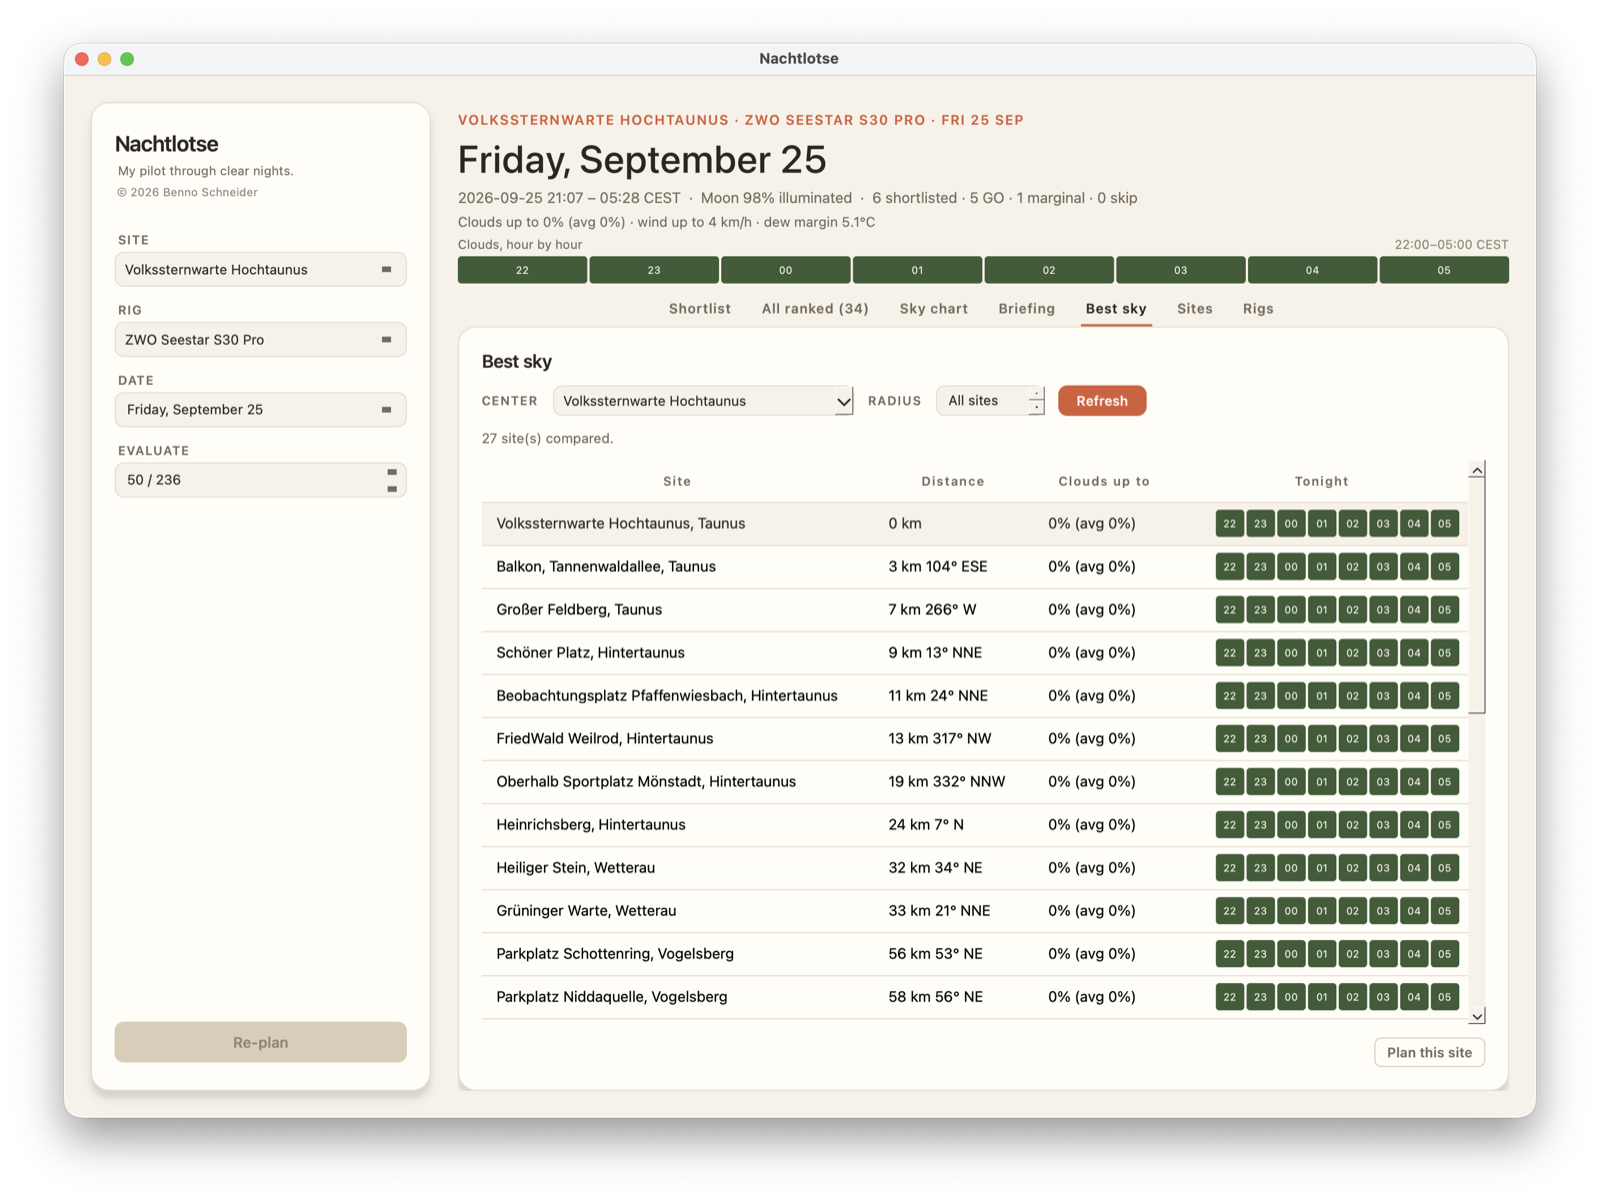
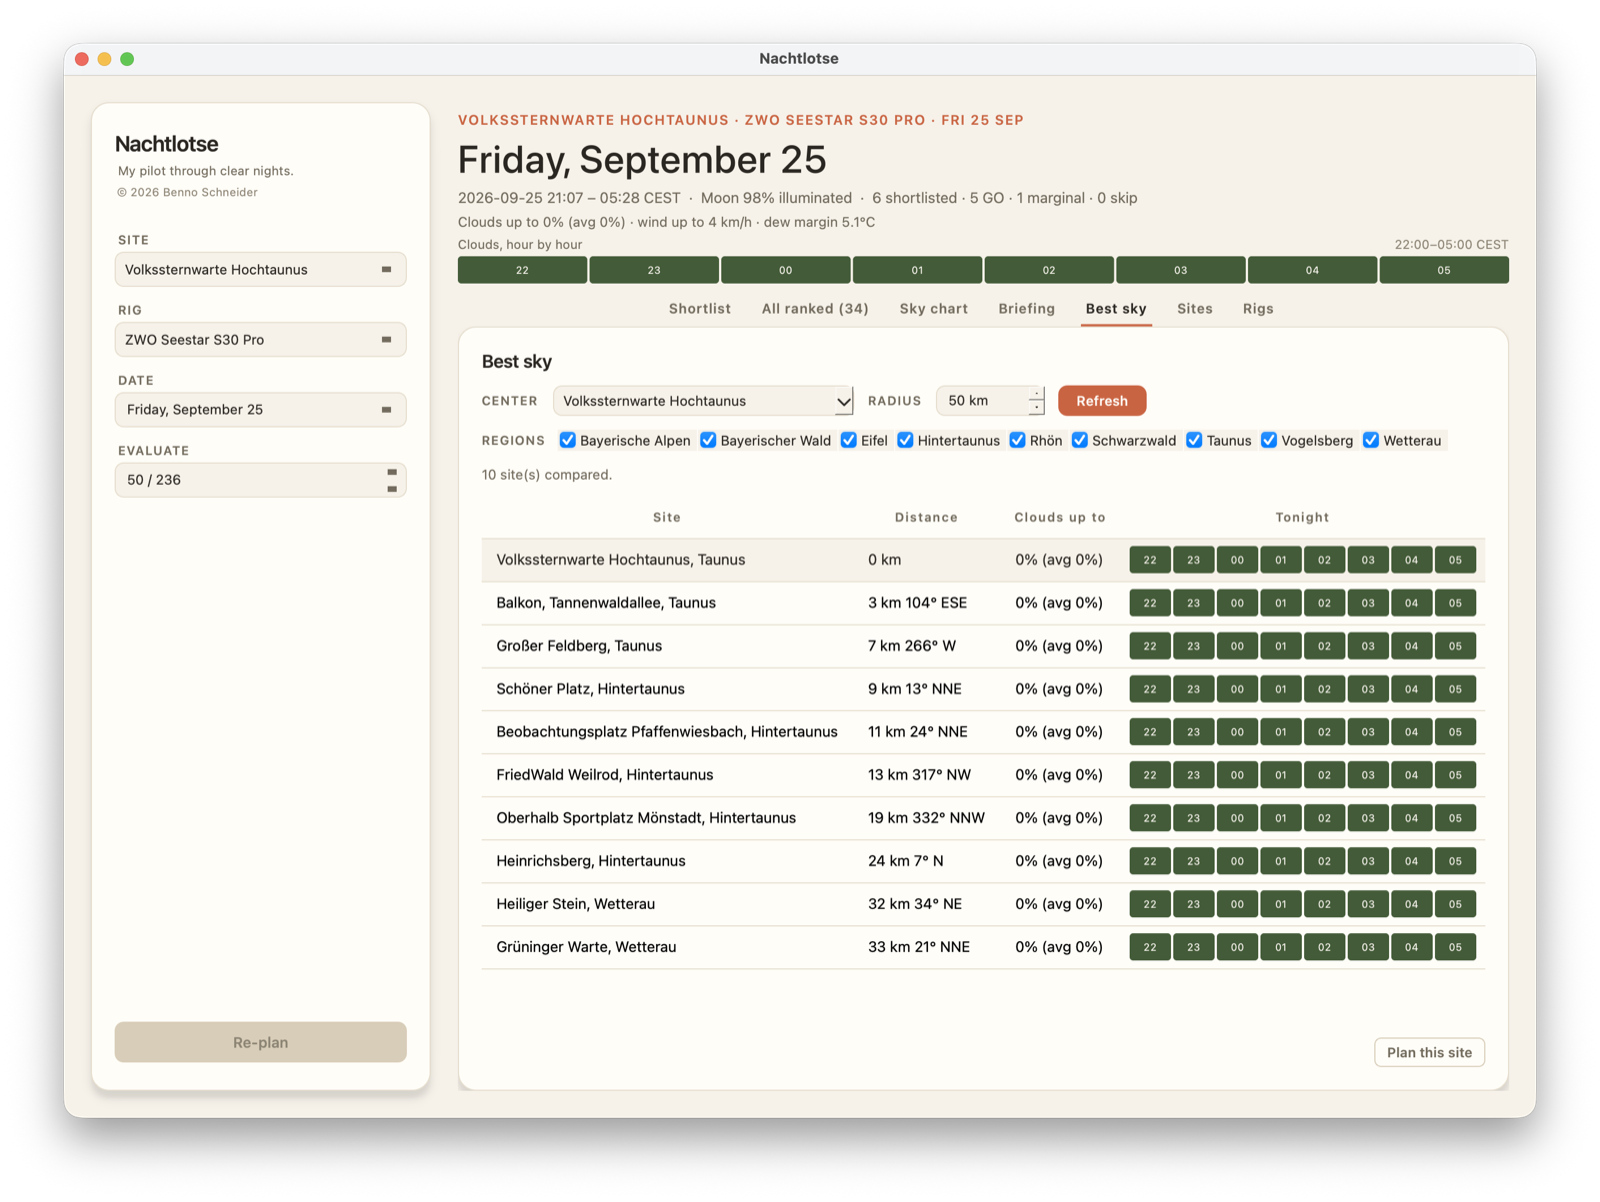
Best sky: region filter, 50km default radius, auto-refresh on first open
Adds the same REGIONS checkbox row the Sites tab already has (all
checked by default) — filters the results table live, independent of
Center/Radius: toggling a region never itself re-fetches, it just
shows/hides rows from whatever the last Refresh already pulled in, so
unchecking a region and checking it back needs no second Refresh.
theme.region_checkbox_row() is the shared builder now used by both
screens (promoted out of sites_rigs.py's own, now-identical, private
version).

Radius also defaults to 50km instead of opening on "All sites"
(the country-spanning site list from recent sites_local.yaml
additions made that a much less useful first view than it used to
be), and the tab auto-refreshes itself the first time it's actually
switched to (MainWindow.tabs.currentChanged -> BestSkyCard.
refresh_if_needed(), a one-shot guarded by a pending flag) — so it
shows real results immediately rather than an empty "click Refresh"
prompt. Every change after that first automatic one, and every later
tab switch, still needs an explicit Refresh click same as before.

Also fixes a real rendering bug hit while testing the region filter:
shrinking QTableWidget's row count for a REGIONS-narrowed re-render
left the previous, wider result set's sparkline cell widgets still
painting behind the new rows — same class of stale-widget bug already
fixed for the Sites tab's own cards, now fixed here by forcing the
table through row count 0 before setting the real one.

Changed region(s): [[0.3125, 0.3078, 0.9375, 0.8619]]

diff --git a/nachtlotse/gui/best_sky_card.py b/nachtlotse/gui/best_sky_card.py
@@ -8,7 +8,13 @@ tonight", independent of any rig. It therefore doesn't hook into
 `MainWindow._replan` at all — its own Center/Radius controls are staged
 and applied by their own Refresh button (same "staged, not live" rule
 `sidebar.py`'s module docstring lays out), not tied to the sidebar's
-Re-plan.
+Re-plan. `refresh_if_needed()` is the one exception: `MainWindow` calls
+it on every tab switch, and the first one that actually lands here
+clicks Refresh automatically (with Radius already at
+`_DEFAULT_RADIUS_KM`, not "All sites"), so the tab shows real results
+the moment it's first opened rather than an empty "click Refresh"
+prompt — every switch after that, and every control change, still
+needs an explicit click same as always.
 
 The compared date instead *does* follow the sidebar: `set_date` is
 called from `MainWindow._on_plan_ready` after every successful plan, so
@@ -23,6 +29,14 @@ The request runs on a background `QThread` (`_BestSkyWorker`), same
 reasoning as `briefing._BriefingWorker`/`main_window._PlanWorker`: it's
 one Open-Meteo fetch per candidate site (cached 1h, but still real
 network I/O), and running it on the UI thread would freeze the window.
+
+A REGIONS checkbox row (`theme.region_checkbox_row`, shared with the
+Sites tab's own identical one) filters the *displayed* table live —
+unlike Center/Radius, toggling a region never itself triggers a new
+fetch. Refresh still queries every configured site (subject to
+Radius), and REGIONS just shows/hides rows from whatever's already in
+`self._all_rows`; unchecking a region and checking it back needs no
+second Refresh to see its data again.
 """
 
 from __future__ import annotations
@@ -32,6 +46,7 @@ from zoneinfo import ZoneInfo
 
 from PySide6.QtCore import Qt, QThread, Signal
 from PySide6.QtWidgets import (
+    QCheckBox,
     QComboBox,
     QHBoxLayout,
     QHeaderView,
@@ -52,12 +67,17 @@ from nachtlotse.gui.theme import (
     RoundedCard,
     field_label,
     label_style,
+    region_checkbox_row,
     secondary_button,
 )
 
 # Sites you'd realistically drive to for one night, not a hard engine
 # limit — best_sky.compare_sites itself accepts any distance.
 _MAX_RADIUS_KM = 500
+# The initial Radius, not a permanent cap — a sensible "nearby options"
+# starting point (widen or go to "All sites" from here) rather than
+# opening on the full, possibly-country-spanning site list.
+_DEFAULT_RADIUS_KM = 50
 
 # "Clouds up to" carries the phrasing that used to repeat in every row's
 # own cell text (data_adapter.BestSkyRow.clouds_text is now just the
@@ -111,8 +131,9 @@ class _BestSkyWorker(QThread):
 
 
 class BestSkyCard(RoundedCard):
-    """Center/Radius controls, a Refresh button, and the ranked
-    clearest-first comparison table."""
+    """Center/Radius controls, a Refresh button, a REGIONS filter row
+    (live, see module docstring), and the ranked clearest-first
+    comparison table."""
 
     plan_site_requested = Signal(object)  # SiteRecord
 
@@ -125,7 +146,16 @@ class BestSkyCard(RoundedCard):
         # calls `set_date` for real (see module docstring) — the system's
         # local date is a fine starting guess for that brief window.
         self._selected_date = datetime.now().astimezone().date()
+        # `_all_rows` is every row from the last successful fetch;
+        # `_rows` is whatever REGIONS currently leaves visible (what the
+        # table actually shows, and what row indices in it resolve
+        # against — see _on_plan_clicked). Refreshing replaces both;
+        # toggling a region only ever re-filters _all_rows into _rows.
+        self._all_rows: list[data_adapter.BestSkyRow] = []
         self._rows: list[data_adapter.BestSkyRow] = []
+        self._region_checkboxes: dict[str, QCheckBox] = {}
+        self._has_results = False
+        self._auto_refresh_pending = True
         self._worker: _BestSkyWorker | None = None
 
         layout = QVBoxLayout(self)
@@ -166,6 +196,7 @@ class BestSkyCard(RoundedCard):
         # (omitted = every configured site) and the EVALUATE spinbox's
         # identical 0-is-special convention in sidebar.py.
         self.radius_spin.setSpecialValueText("All sites")
+        self.radius_spin.setValue(_DEFAULT_RADIUS_KM)
         self.radius_spin.setStyleSheet(controls_style)
         controls_row.addWidget(self.radius_spin)
 
@@ -188,6 +219,12 @@ class BestSkyCard(RoundedCard):
         controls_row.addWidget(self.refresh_button)
         controls_row.addStretch(1)
         layout.addLayout(controls_row)
+
+        region_row, self._region_checkboxes = region_checkbox_row(
+            {record.region for record in sites}, self._on_region_filter_changed
+        )
+        if region_row is not None:
+            layout.addLayout(region_row)
 
         self.status_label = QLabel("Pick a center site and click Refresh.")
         self.status_label.setStyleSheet(
@@ -250,6 +287,19 @@ class BestSkyCard(RoundedCard):
         a refetch."""
         self._selected_date = selected_date
 
+    def refresh_if_needed(self) -> None:
+        """Called from `MainWindow` on every tab switch; only the first
+        one that actually lands on this tab does anything — clicking
+        Refresh for the user once, with whatever Center/Radius/REGIONS
+        are already staged (Radius defaults to `_DEFAULT_RADIUS_KM`),
+        so the tab isn't just an empty prompt the very first time it's
+        opened. Every later switch, and every control change after
+        that, still needs an explicit Refresh click same as always."""
+        if not self._auto_refresh_pending:
+            return
+        self._auto_refresh_pending = False
+        self.refresh_button.click()
+
     def _on_refresh_clicked(self) -> None:
         reference = self._sites[self.center_combo.currentIndex()]
         radius_value = self.radius_spin.value()
@@ -265,6 +315,12 @@ class BestSkyCard(RoundedCard):
             f"{self._selected_date:%A, %B %-d}…"
         )
         self.table.setRowCount(0)
+        # Cleared up front, not just left stale until a new _on_succeeded:
+        # a REGIONS toggle during/after a failed refresh must not silently
+        # repopulate the table from the previous fetch's results.
+        self._has_results = False
+        self._all_rows = []
+        self._rows = []
 
         self._worker = _BestSkyWorker(reference, self._sites, self._selected_date, max_distance_km)
         self._worker.succeeded.connect(self._on_succeeded)
@@ -273,15 +329,43 @@ class BestSkyCard(RoundedCard):
 
     def _on_succeeded(self, reports: list[best_sky.SiteSkyReport]) -> None:
         self.refresh_button.setEnabled(True)
-        self._rows = data_adapter.build_best_sky_rows(reports, self._sites)
+        self._has_results = True
+        self._all_rows = data_adapter.build_best_sky_rows(reports, self._sites)
+        self._render_rows(self._filtered_rows())
+
+    def _filtered_rows(self) -> list[data_adapter.BestSkyRow]:
+        if not self._region_checkboxes:
+            return self._all_rows
+        selected = {
+            region
+            for region, checkbox in self._region_checkboxes.items()
+            if checkbox.isChecked()
+        }
+        return [row for row in self._all_rows if row.site_record.region in selected]
+
+    def _on_region_filter_changed(self) -> None:
+        if not self._has_results:
+            return  # nothing fetched yet — leave the initial prompt as-is
+        self._render_rows(self._filtered_rows())
+
+    def _render_rows(self, rows: list[data_adapter.BestSkyRow]) -> None:
+        self._rows = rows
         # Every site's own dark window is a different length (latitude) —
         # align every row's sparkline to the same hour-by-hour timeline
-        # (the longest night among them) rather than each row scaling to
-        # its own hour count, which otherwise leaves same-width columns
-        # meaning different clock hours from row to row.
-        axis = data_adapter.shared_hourly_axis([row.hourly_cloud_cover for row in self._rows])
-        self.table.setRowCount(len(self._rows))
-        for row_index, row in enumerate(self._rows):
+        # (the longest night among the *displayed* rows) rather than each
+        # row scaling to its own hour count, which otherwise leaves
+        # same-width columns meaning different clock hours from row to
+        # row. Recomputed here (not once per fetch) so a REGIONS toggle
+        # that drops the longest-night row also shrinks the axis to match.
+        axis = data_adapter.shared_hourly_axis([row.hourly_cloud_cover for row in rows])
+        # Dropping straight to the new (possibly smaller) row count, not
+        # via 0 first, left REGIONS-filtered-out rows' cell widgets
+        # (the sparklines — QTableWidget.setRowCount() alone doesn't
+        # reliably tear those down) still painting behind the shorter
+        # table — same lesson as sites_rigs.py's own card-widget cleanup.
+        self.table.setRowCount(0)
+        self.table.setRowCount(len(rows))
+        for row_index, row in enumerate(rows):
             site_item = QTableWidgetItem(row.site_text)
             distance_item = QTableWidgetItem(row.distance_text)
             clouds_item = QTableWidgetItem(row.clouds_text)
@@ -298,9 +382,17 @@ class BestSkyCard(RoundedCard):
                 _TONIGHT_COLUMN_INDEX,
                 build_cloud_sparkline(row.hourly_cloud_cover, local_tz, axis=axis),
             )
-        if self._rows:
+        if rows:
             self.table.selectRow(0)  # the clearest site, already ranked first
-            self.status_label.setText(f"{len(self._rows)} site(s) compared.")
+            if len(rows) == len(self._all_rows):
+                self.status_label.setText(f"{len(rows)} site(s) compared.")
+            else:
+                self.status_label.setText(
+                    f"{len(rows)} of {len(self._all_rows)} site(s) shown "
+                    "(REGIONS filter)."
+                )
+        elif self._all_rows:
+            self.status_label.setText("No sites match the checked regions.")
         else:
             self.status_label.setText("No configured site falls within that radius.")
 

diff --git a/nachtlotse/gui/theme.py b/nachtlotse/gui/theme.py
@@ -9,9 +9,18 @@ ROADMAP.md/STATUS.md for what's still missing from this first scaffold).
 
 from __future__ import annotations
 
+from collections.abc import Callable
+
 from PySide6.QtCore import Qt
 from PySide6.QtGui import QColor
-from PySide6.QtWidgets import QFrame, QGraphicsDropShadowEffect, QLabel, QPushButton
+from PySide6.QtWidgets import (
+    QCheckBox,
+    QFrame,
+    QGraphicsDropShadowEffect,
+    QHBoxLayout,
+    QLabel,
+    QPushButton,
+)
 
 LIGHT_COLORS = {
     "cream": "#f6f2ea",
@@ -134,6 +143,41 @@ def field_label(text: str) -> QLabel:
         )
     )
     return label
+
+
+def region_checkbox_row(
+    regions: set[str], on_toggle: Callable[[], None]
+) -> tuple[QHBoxLayout | None, dict[str, QCheckBox]]:
+    """A "REGIONS" `field_label` + one checkbox per region (alphabetical,
+    all checked by default), each wired to `on_toggle` — shared between
+    the Sites tab's own filter row (`gui/sites_rigs.py`, the original)
+    and Best Sky's (`gui/best_sky_card.py`) identical one. What "checked"
+    means is entirely up to the caller: `SitesCard` re-renders live on
+    every toggle (pure client-side filtering, nothing to fetch);
+    `BestSkyCard` also re-renders live, filtering its own already-
+    fetched rows — REGIONS never itself triggers a new Open-Meteo fetch
+    in either screen, only what's already loaded gets shown or hidden.
+
+    Returns `(None, {})` when fewer than two regions exist — nothing
+    meaningful to filter, so callers should skip adding the row at all.
+    """
+    sorted_regions = sorted(regions, key=str.casefold)
+    if len(sorted_regions) < 2:
+        return None, {}
+
+    row = QHBoxLayout()
+    row.addWidget(field_label("REGIONS"))
+    checkbox_style = f"QCheckBox {{ color: {COLORS['ink']}; font-size: 12px; }}"
+    checkboxes: dict[str, QCheckBox] = {}
+    for region in sorted_regions:
+        checkbox = QCheckBox(region)
+        checkbox.setChecked(True)
+        checkbox.setStyleSheet(checkbox_style)
+        checkbox.toggled.connect(on_toggle)
+        checkboxes[region] = checkbox
+        row.addWidget(checkbox)
+    row.addStretch(1)
+    return row, checkboxes
 
 
 def secondary_button(text: str) -> QPushButton:

diff --git a/nachtlotse/gui/sites_rigs.py b/nachtlotse/gui/sites_rigs.py
@@ -48,6 +48,7 @@ from nachtlotse.gui.theme import (
     RoundedCard,
     field_label,
     label_style,
+    region_checkbox_row,
     secondary_button,
 )
 
@@ -199,7 +200,9 @@ class SitesCard(_ListScrollArea):
 
         if sites:
             outer.addLayout(self._build_sort_row())
-            region_row = self._build_region_filter_row()
+            region_row, self._region_checkboxes = region_checkbox_row(
+                {record.region for record in sites}, self._render
+            )
             if region_row is not None:
                 outer.addLayout(region_row)
 
@@ -256,29 +259,6 @@ class SitesCard(_ListScrollArea):
         self.from_combo.currentIndexChanged.connect(self._render)
         row.addWidget(self.from_combo)
 
-        row.addStretch(1)
-        return row
-
-    def _build_region_filter_row(self) -> QHBoxLayout | None:
-        """A checkbox per distinct region, all checked by default — a
-        filter independent of SORT (not nested under `mode="region"`),
-        so it's built and shown whenever there's more than one region
-        to choose among, regardless of the current sort. None when
-        every configured site shares one region: nothing to filter."""
-        regions = sorted({record.region for record in self._sites}, key=str.casefold)
-        if len(regions) < 2:
-            return None
-
-        row = QHBoxLayout()
-        row.addWidget(field_label("REGIONS"))
-        checkbox_style = f"QCheckBox {{ color: {COLORS['ink']}; font-size: 12px; }}"
-        for region in regions:
-            checkbox = QCheckBox(region)
-            checkbox.setChecked(True)
-            checkbox.setStyleSheet(checkbox_style)
-            checkbox.toggled.connect(self._render)
-            self._region_checkboxes[region] = checkbox
-            row.addWidget(checkbox)
         row.addStretch(1)
         return row
 

diff --git a/nachtlotse/gui/main_window.py b/nachtlotse/gui/main_window.py
@@ -295,6 +295,8 @@ class MainWindow(QMainWindow):
         self.tabs.addTab(SitesCard(store.SITES), "Sites")
         self.tabs.addTab(RigsCard(store.RIGS), "Rigs")
 
+        self.tabs.currentChanged.connect(self._on_tab_changed)
+
         content_layout.addWidget(self.tabs, stretch=1)
 
         self._worker: _PlanWorker | None = None
@@ -486,6 +488,14 @@ class MainWindow(QMainWindow):
         than leaving the user to re-select it manually."""
         self.sidebar.set_site(site_record)
         self.tabs.setCurrentIndex(0)
+
+    def _on_tab_changed(self, index: int) -> None:
+        """Fires on every tab switch — `BestSkyCard.refresh_if_needed`
+        itself no-ops after the first time it actually lands there, so
+        this is just "let Best Sky know it might be its first showing",
+        not a full per-tab dispatch table."""
+        if self.tabs.widget(index) is self.best_sky:
+            self.best_sky.refresh_if_needed()
 
     def _on_plan_failed(self, message: str) -> None:
         self._finish_replan()

diff --git a/README.md b/README.md
@@ -172,10 +172,18 @@ nightly-briefing screen (same Claude API opt-in/fail-loud contract as
 `--prose` — nothing is sent to Anthropic until you click Generate), a
 **Best sky** tab (`best-sky`'s own cross-site cloud-cover comparison,
 independent of the currently-planned rig: pick any configured site as
-**Center**, an optional **Radius** in km to only compare sites within
-that distance — same "0/omitted = every configured site" convention as
-`--radius-km` — then Refresh to rank them clearest-first, each row its
-site plus region, a "Clouds up to" max/avg reading, and an hourly
+**Center**, an optional **Radius** in km (defaults to 50, not "every
+configured site" — widen it or set it to 0 for that, same
+"0/omitted = every configured site" convention as `--radius-km`) to
+only compare sites within that distance, plus a **Regions** checkbox
+row (all checked by default) that filters the results table live —
+unlike Center/Radius, toggling a region never itself re-fetches, it
+just shows/hides rows from whatever Refresh already pulled in. The
+tab auto-refreshes itself once, the first time you open it, so it's
+never just an empty prompt; every change after that (and every later
+tab switch) still needs an explicit Refresh click. Results rank
+clearest-first, each row its site plus region, a "Clouds up to"
+max/avg reading, and an hourly
 cloud-cover sparkline for that site's own dark window (a clear-then-
 closes-in night doesn't collapse into the same number as the reverse).
 Every row's sparkline lines up on the same hour-by-hour timeline —
